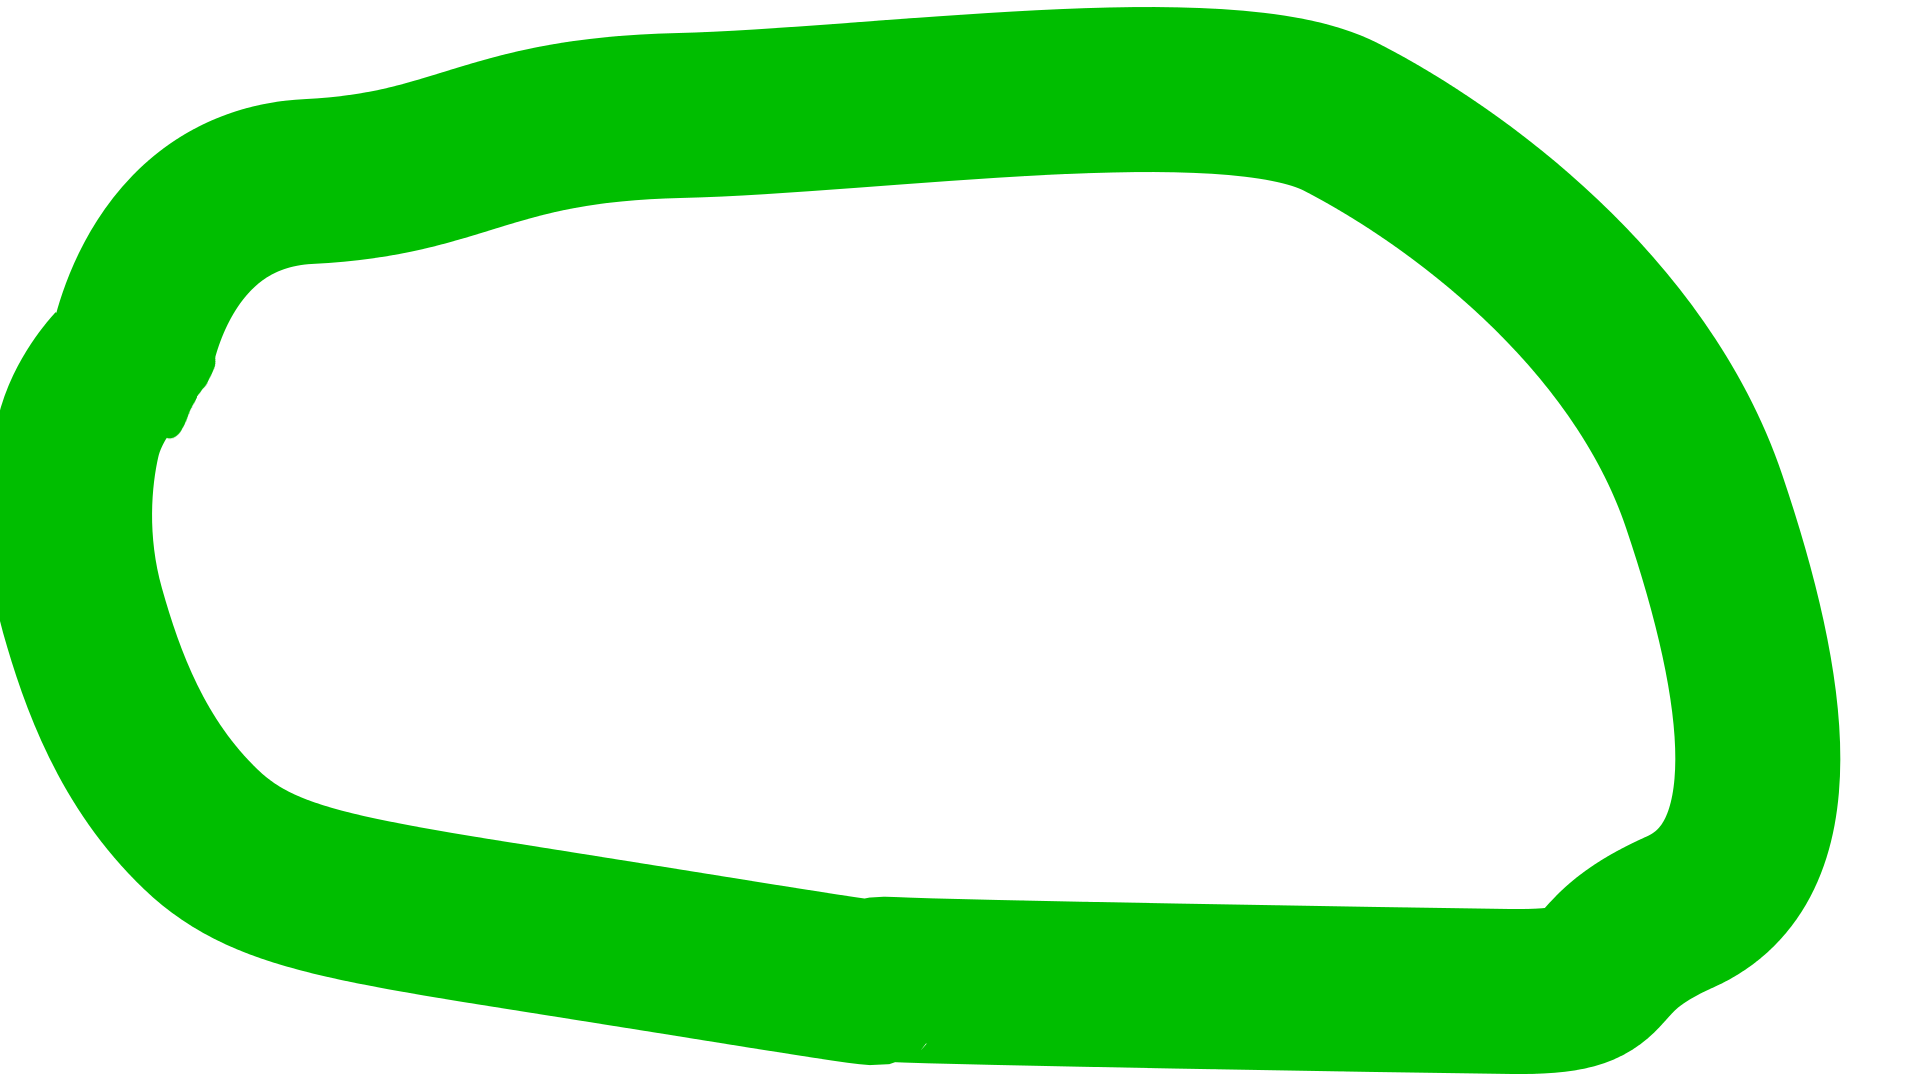
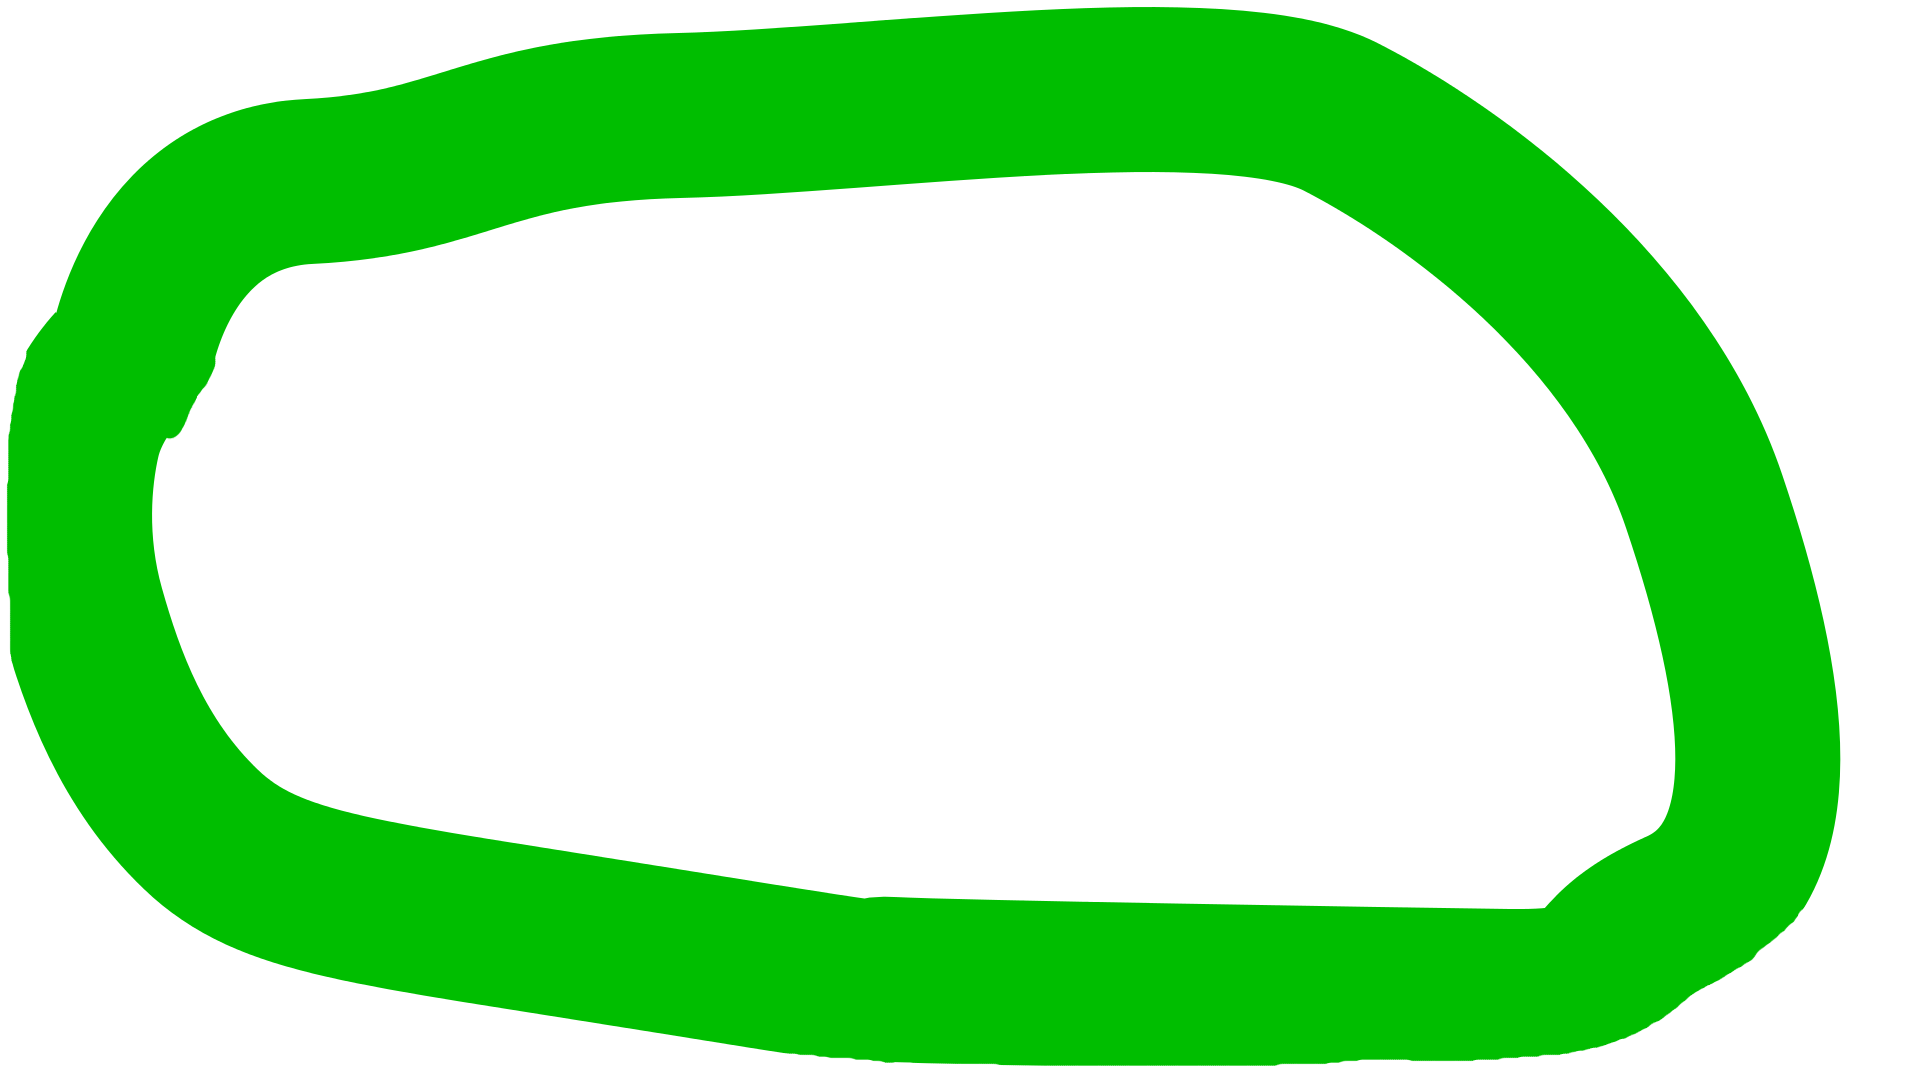
finally completely working

diff --git a/programa/demos/include/demo_3.hpp b/programa/demos/include/demo_3.hpp
@@ -45,7 +45,7 @@ typedef std::array<uint, 3> State;
 #define ALPHAQL 0.7
 #define LAMBDAQL 1.0
 
-#define TIMESCALE 5
+#define TIMESCALE 7
 
 
 double veclen(sf::Vector2f a, sf::Vector2f ap);
@@ -53,7 +53,7 @@ double veclen(sf::Vector2f a, sf::Vector2f ap);
 uint translatesensor(int s);
 const char* translateaction(uint a);
 
-static const auto spawnpos = sf::Vector2f(525.f, 84.f);
+static const auto spawnpos = sf::Vector2f(373.f, 247.f);
 double dec2rad(double dec);
 
 struct Car {

diff --git a/programa/demos/src/demo_3.cpp b/programa/demos/src/demo_3.cpp
@@ -161,7 +161,7 @@ void Demo_3::run()
 		std::cout << "Error could not load car image" << std::endl;
 	
 	
-	if(!background.loadFromFile("path2.png"))
+	if(!background.loadFromFile("path4.png"))
 		std::cout << "Error could not load circuit image" << std::endl;
 	circuit.setTexture(background);
 	sf::Image image = background.copyToImage();
